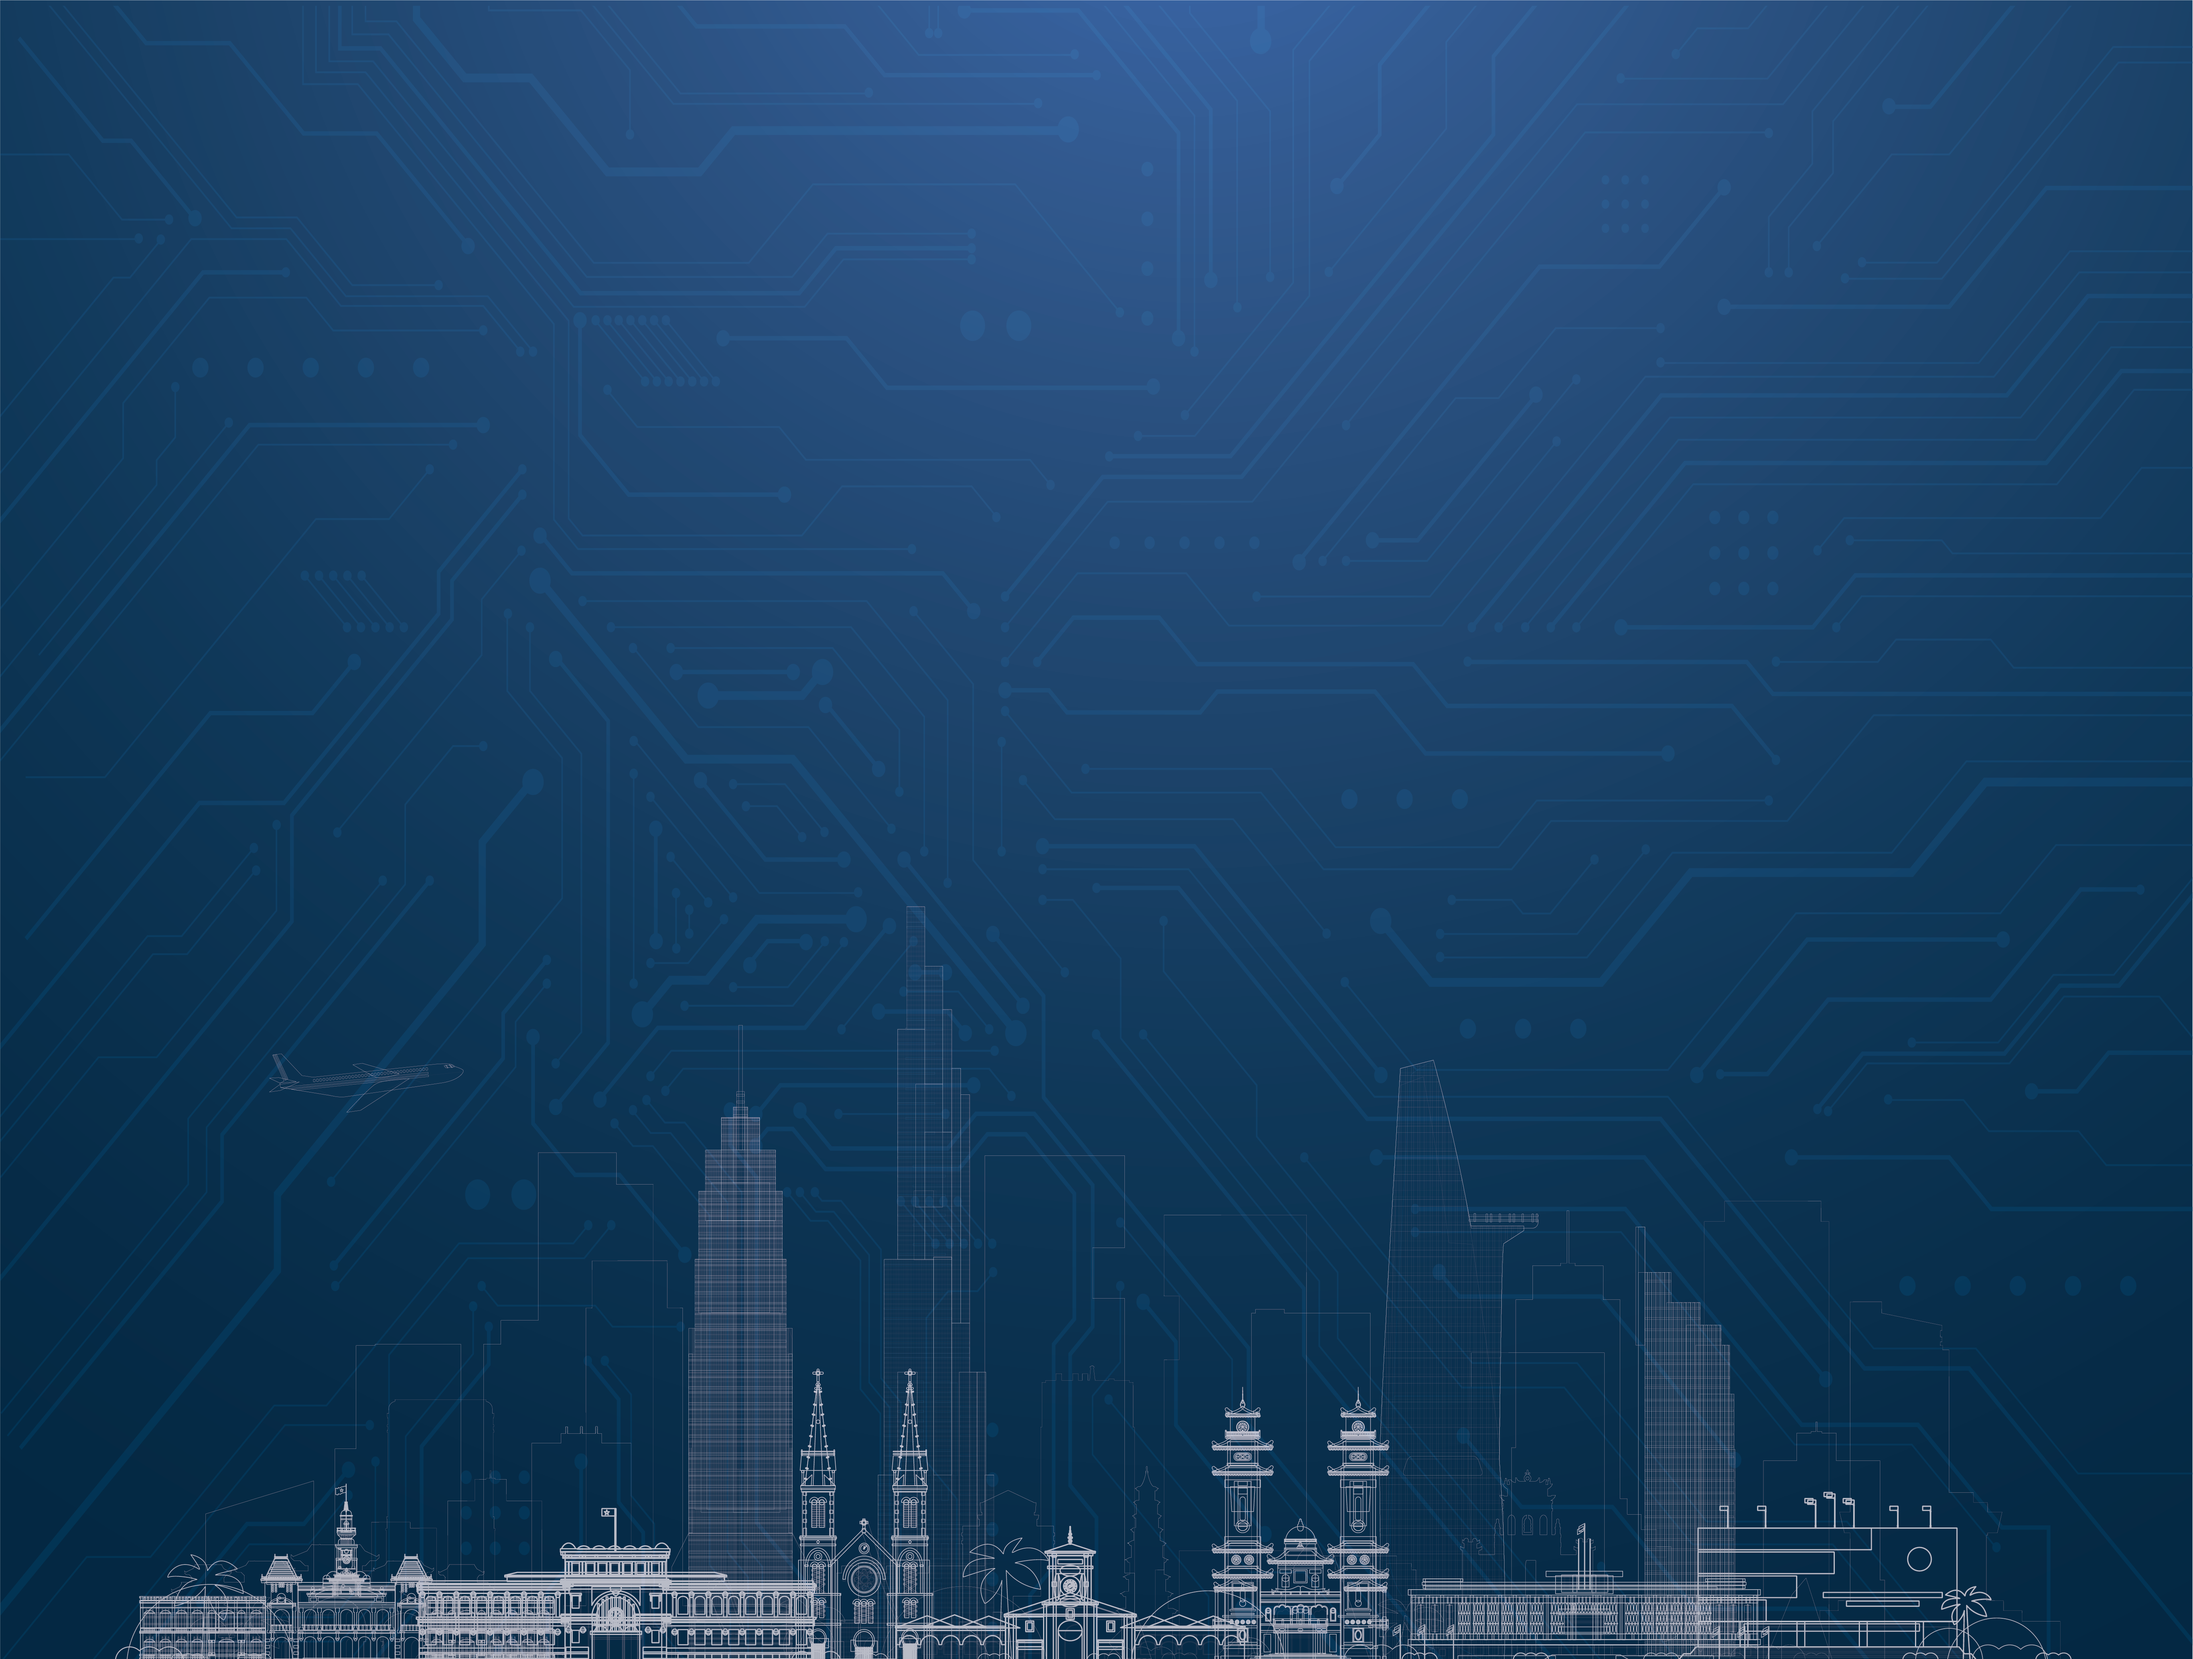
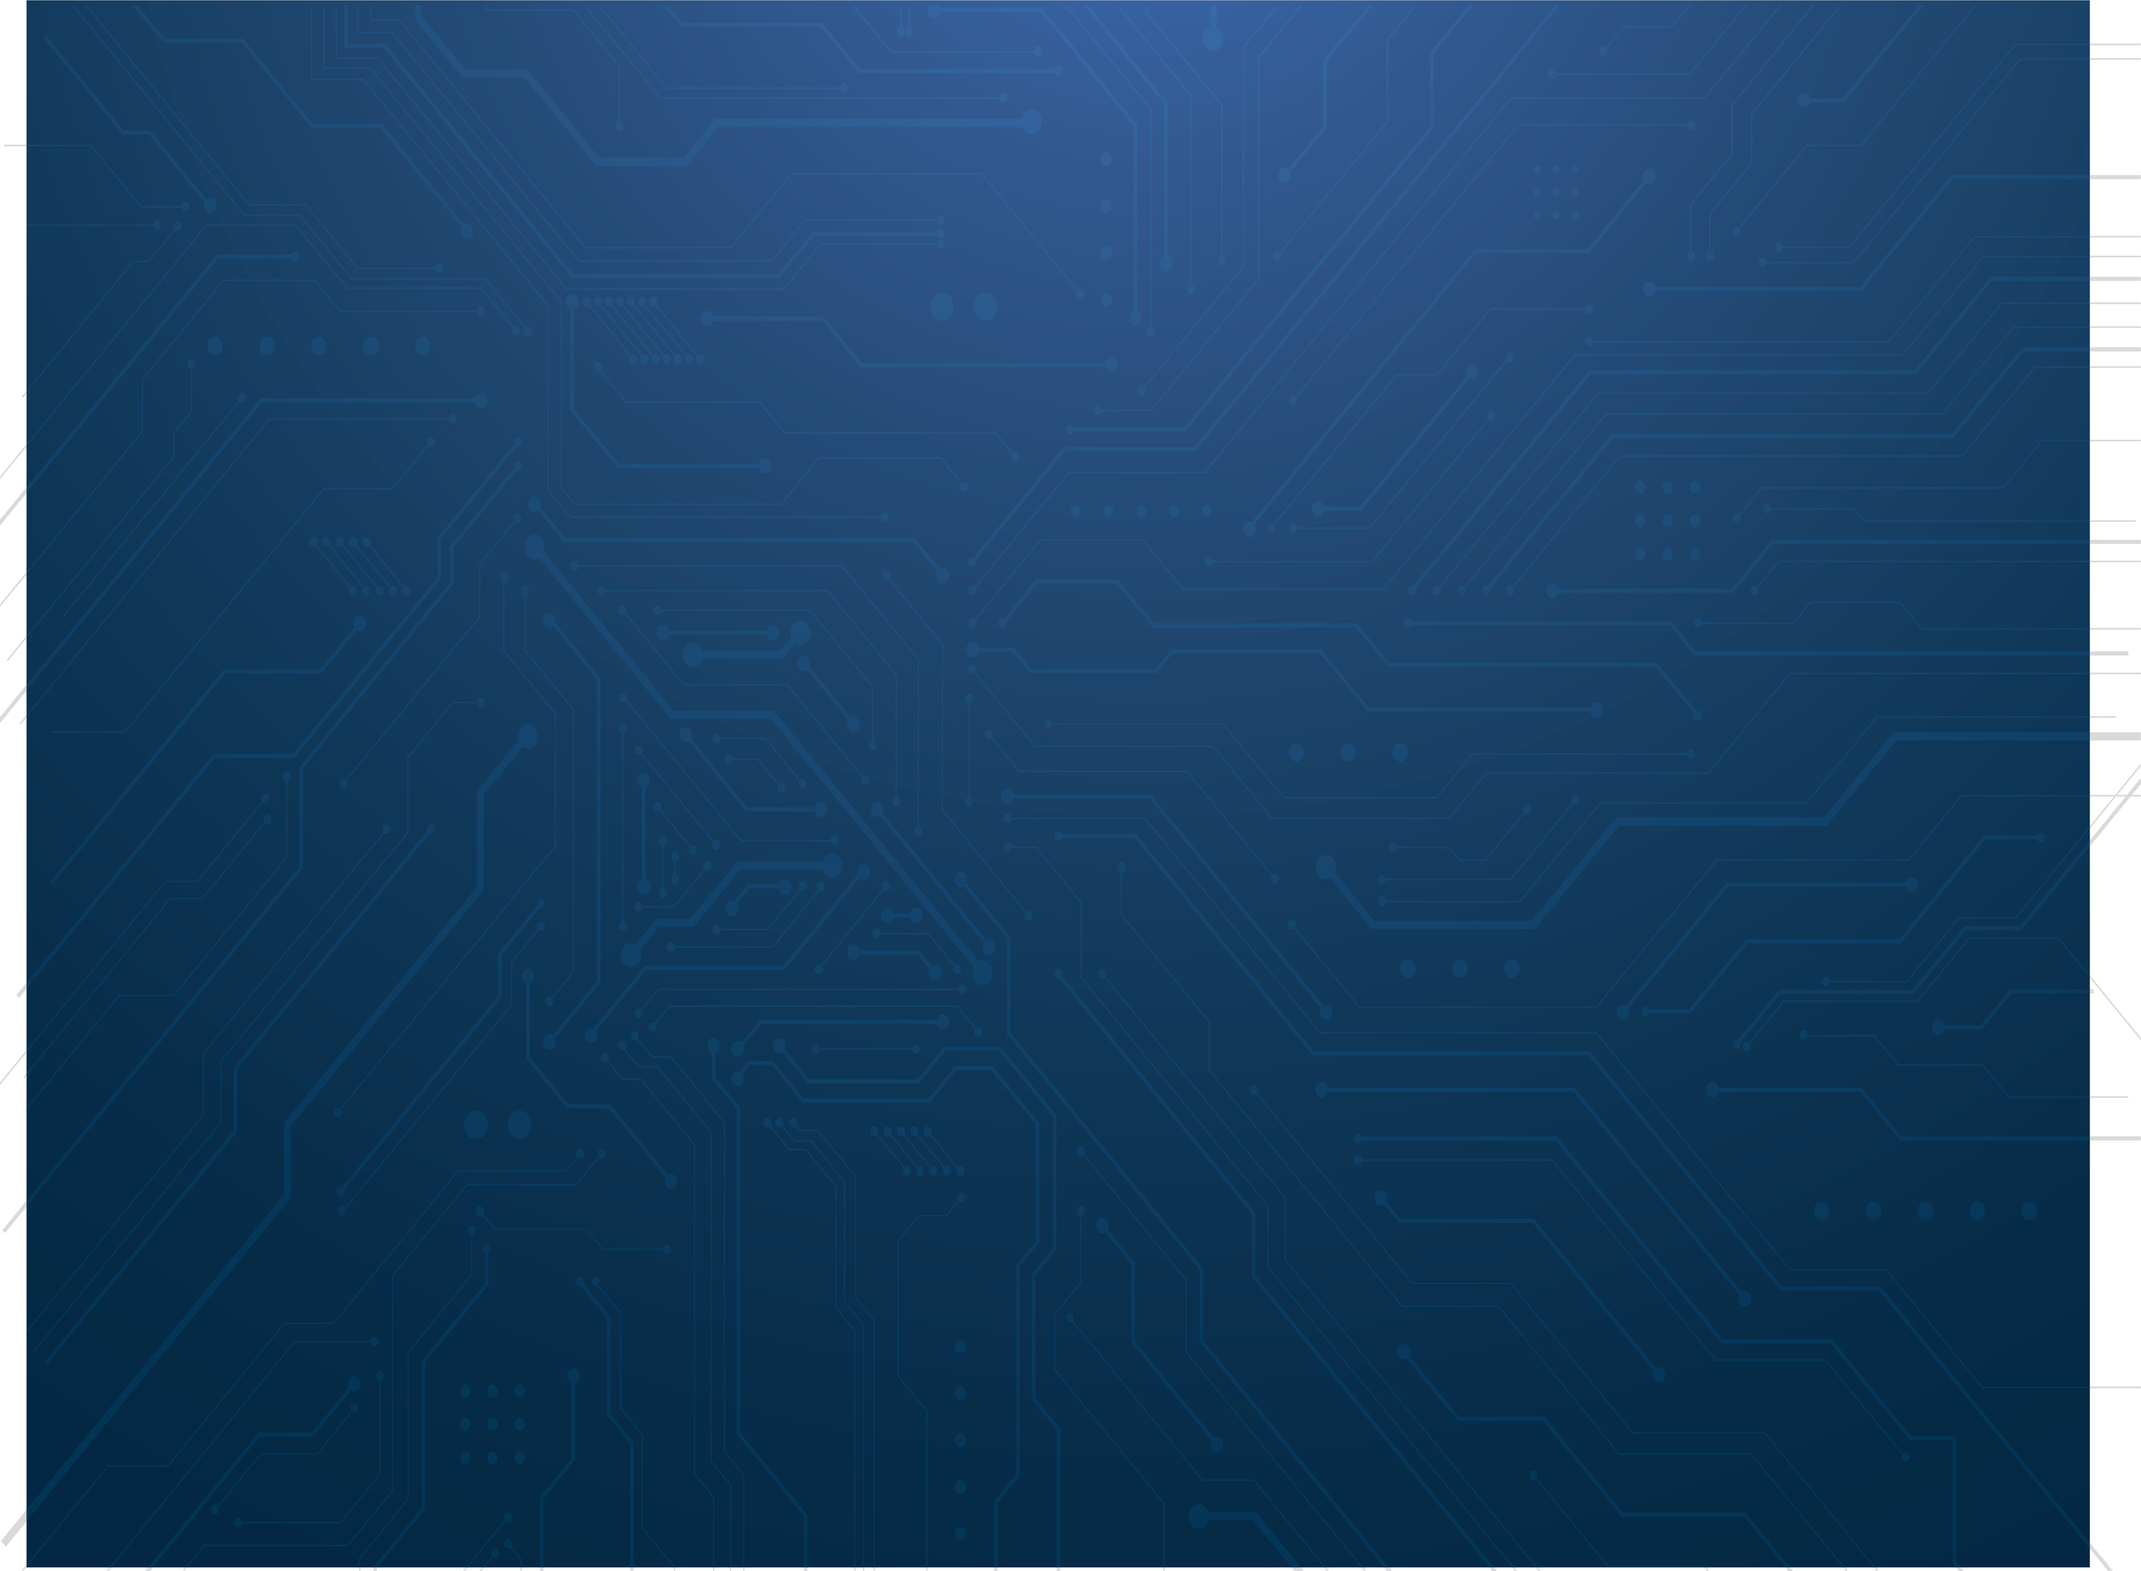
add 2 section final

Changed region(s): [[0.0, 0.0, 1.0, 1.0], [0.1244, 0.6244, 0.1866, 0.6556]]

diff --git a/index.html b/index.html
@@ -35,33 +35,28 @@
         </div>
     </div>
     <header class="header bg-blue-dark-homepage">
-        <div class="container">
-            <!-- <h1 class="text-center animate__animated animate__fadeInDown animate__delay-1s">
-                THIS IS HEADER
-            </h1> -->
-            <nav class="navbar navbar-expand-lg navbar-dark">
-                <div class="container-fluid">
-                    <a class="navbar-brand" aria-current="page" href="#">
-                        <img src="./images/logo_mcard_white.png" alt="logo-white" width="150">
-                    </a>
-                    <button class="navbar-toggler" type="button" data-bs-toggle="collapse"
-                        data-bs-target="#navbar_mcard_header" aria-controls="navbarNavAltMarkup" aria-expanded="false"
-                        aria-label="Toggle navigation">
-                        <span class="navbar-toggler-icon"></span>
-                    </button>
-                    <div class="collapse navbar-collapse justify-content-between" id="navbar_mcard_header">
-                        <div class="navbar-nav">
-                            <a class="nav-link" href="#">Bảng giá</a>
-                            <a class="nav-link" href="#">Hỗ trợ</a>
-                            <a class="nav-link" href="#">Liên hệ</a>
-                        </div>
-                        <a class="nav-link mcard_ecormerce py-2" href="#">
-                            <i class="fa-solid fa-cart-shopping text-white-50 fs-5"></i>
-                        </a>
+        <nav class="navbar navbar-expand-lg navbar-dark">
+            <div class="container-fluid">
+                <a class="navbar-brand" aria-current="page" href="#">
+                    <img src="./images/logo_mcard_white.png" alt="logo-white" width="150">
+                </a>
+                <button class="navbar-toggler" type="button" data-bs-toggle="collapse"
+                    data-bs-target="#navbar_mcard_header" aria-controls="navbarNavAltMarkup" aria-expanded="false"
+                    aria-label="Toggle navigation">
+                    <span class="navbar-toggler-icon"></span>
+                </button>
+                <div class="collapse navbar-collapse justify-content-between" id="navbar_mcard_header">
+                    <div class="navbar-nav">
+                        <a class="nav-link" href="#">Bảng giá</a>
+                        <a class="nav-link" href="#">Hỗ trợ</a>
+                        <a class="nav-link" href="#">Liên hệ</a>
                     </div>
+                    <a class="nav-link mcard_ecormerce py-2" href="#">
+                        <i class="fa-solid fa-cart-shopping text-white-50 fs-5"></i>
+                    </a>
                 </div>
-            </nav>
-        </div>
+            </div>
+        </nav>
     </header>
     <main class="main">
         <section class="intro_mcard">
@@ -96,49 +91,37 @@
                     class="wow animate__animated animate__zoomIn animate__delay-1s" width="300">
             </div>
         </section>
-        <div class="container">
-            <!-- <h1 class="text-center wow animate__animated animate__fadeInUp animate__delay-1s">
-                THIS IS MAIN
-            </h1> -->
-            <!-- <div class="menuCircleContact">
-                <button>Click to toggle the menu</button>
-                <ul>
-                    <li>
-                        <input id="c1" type="checkbox">
-                        <label for="c1">Danh Bạ</label>
-                    </li>
-                    <li>
-                        <input id="c2" type="checkbox">
-                        <label for="c2">Nghề Nghiệp</label>
-                    </li>
-                    <li>
-                        <input id="c3" type="checkbox">
-                        <label for="c3">Map location</label>
-                    </li>
-                    <li>
-                        <input id="c4" type="checkbox">
-                        <label for="c4">Profile</label>
-                    </li>
-                    <li>
-                        <input id="c5" type="checkbox">
-                        <label for="c5">Website</label>
-                    </li>
-                    <li>
-                        <input id="c6" type="checkbox">
-                        <label for="c6">Social media</label>
-                    </li>
-                    <li>
-                        <input id="c7" type="checkbox">
-                        <label for="c7">Email</label>
-                    </li>
-                    <li>
-                        <input id="c8" type="checkbox">
-                        <label for="c8">Địa chỉ</label>
-                    </li>
-                </ul>
-            </div> -->
-
-        </div>
+        <section class="template_card">
+            <div class="container_fluid">
+                <img src="./images/VIP-CARD.png" alt="vip_card" class="w-100">
+            </div>
+            <div class="container d-flex flex-column align-items-center">
+                <h3 class="py-2">Xem trước mCards của bạn</h3>
+                <div class="list_type_card d-flex justify-content-center">
+                    <a class="px-2 text-dark fw-bold" href="#">GOLD_CARDS</a>
+                    <a class="px-2 fw-bold text-blue-light-homepage" href="#">VIP_CARDS</a>
+                    <a class="px-2 text-dark fw-bold" href="#">PRIME_CARDS</a>
+                </div>
+                <a href="#" class="text-blue-light-homepage py-4">Đặt thẻ mCards ></a>
+            </div>
+        </section>
+        <section class="tutorial_register_section">
+            <div class="container">
+                <div class="title_tutorial_register text-center d-flex flex-column text-white pt-5">
+                    <span class="fs-2 fw-bold">KHÁCH HÀNG DỄ DÀNG KẾT NỐI</span>
+                    <span class="fs-5 pt-1">CHỈ CẦN CHẠM THẺ HOẶC QUÉT QRCODE</span>
+                </div>
+                <div class="tutorial_register d-flex flex-column mt-3 text-center align-items-center">
+                    <span class="fs-5 pb-3 text-white">Hướng dẫn sử dụng mCards</span>
+                    <button class="btn bg-transparent rounded-pill border-light text-white col-4">Xem video
+                        ngay</button>
+                    <a class="text text-blue-light-homepage" href="https://register.mcards.vn/">Đăng ký mCards ></a>
+                </div>
+                <div class="city_img_outline pt-2">
+                    <img src="./images/city_outline.png" alt="city_outline">
+                </div>
+            </div>
+        </section>
     </main>
     <footer class="footer">
         <div class="container pt-5">

diff --git a/css/homepage.css b/css/homepage.css
@@ -33,109 +33,6 @@ body {
 .text-blue-dark-homepage {
   color: #002843;
 }
-/* menu circle animate */
-.menuCircleContact,
-.menuCircleContact button {
-  font-family: "Oswald", sans-serif;
-  font-weight: 300;
-}
-
-.menuCircleContact button {
-  position: relative;
-  width: 100%;
-  height: 100%;
-  padding: 10px;
-  background: #428bca;
-  border-radius: 50%;
-  border: 0;
-  color: white;
-  font-size: 20px;
-  cursor: pointer;
-  box-shadow: 0 3px 3px rgba(0, 0, 0, 0.1);
-  transition: all 0.1s;
-}
-
-.menuCircleContact button:hover {
-  background: #3071a9;
-}
-
-.menuCircleContact button:focus {
-  outline: none;
-}
-
-.menuCircleContact {
-  position: absolute;
-  left: 50%;
-  top: 50%;
-  width: 140px;
-  height: 140px;
-  margin-top: -70px;
-  margin-left: -70px;
-}
-
-.menuCircleContact ul {
-  position: absolute;
-  list-style: none;
-  padding: 0;
-  margin: 0;
-  top: -20px;
-  right: -20px;
-  bottom: -20px;
-  left: -20px;
-}
-
-.menuCircleContact li {
-  position: absolute;
-  width: 0;
-  height: 100%;
-  margin: 0 50%;
-  -webkit-transform: rotate(-360deg);
-  transition: all 0.8s ease-in-out;
-}
-
-.menuCircleContact li input {
-  display: none;
-}
-
-.menuCircleContact li input + label {
-  position: absolute;
-  left: 50%;
-  bottom: 100%;
-  width: 0;
-  height: 0;
-  line-height: 1px;
-  margin-left: 0;
-  background: #fff;
-  border-radius: 50%;
-  text-align: center;
-  font-size: 1px;
-  overflow: hidden;
-  cursor: pointer;
-  box-shadow: none;
-  transition: all 0.8s ease-in-out, color 0.1s, background 0.1s;
-}
-
-.menuCircleContact li input + label:hover {
-  background: #f0f0f0;
-}
-
-.menuCircleContact li input:checked + label {
-  background: #5cb85c;
-  color: white;
-}
-
-.menuCircleContact li input:checked + label:hover {
-  background: #449d44;
-}
-
-.menuCircleContact.open li input + label {
-  width: 80px;
-  height: 80px;
-  line-height: 80px;
-  margin-left: -40px;
-  box-shadow: 0 3px 3px rgba(0, 0, 0, 0.1);
-  font-size: 14px;
-}
 /* header - navbar*/
 nav.navbar {
   background: url("../images/navbar_bg.png");
@@ -163,13 +60,10 @@ nav.navbar .mcard_ecormerce i:hover {
   min-height: 150px;
   width: 100%;
 }
-.touch_QR img{
-  
-}
 
 /* Circle Contact */
 .circle_contact {
-  background-color: #f2f2f2;
+  background-color: #f2f2f2 !important;
   background: url("../images/circle_contact_bg.png");
   background-size: cover;
   background-repeat: no-repeat;
@@ -186,7 +80,41 @@ nav.navbar .mcard_ecormerce i:hover {
 .circle_contact .image-override img {
   position: absolute;
 }
-footer.footer img{
+/* template_card */
+.list_type_card a {
+  text-decoration: none;
+  font-size: 12px;
+  transition: all 0.3s;
+}
+.template_card a {
+  text-decoration: none;
+  transition: all 0.3s;
+}
+.template_card a:hover {
+  color: #00579c !important;
+}
+.template_card .list_type_card a:hover {
+  color: #00579c !important;
+}
+
+/* tutorial_register_section */
+.tutorial_register_section {
+  background: url("../images/tutorial_mcard_bg.png");
+  background-size: cover;
+  background-position: center center;
+  width: 100%;
+  min-height: 409px;
+}
+.tutorial_register a {
+  text-decoration: none;
+  padding-top: 15px;
+}
+
+.city_img_outline img {
+  width: 100%;
+}
+/* footer */
+footer.footer img {
   position: relative;
   top: -20px;
 }

diff --git a/main.js b/main.js
@@ -20,42 +20,3 @@ function backToTop() {
   document.body.scrollTop = 0;
   document.documentElement.scrollTop = 0;
 }
-
-/* event menu circle button */
-var nbOptions = 8; // number of menus
-var angleStart = -360; // start angle
-
-// jquery rotate animation
-function rotate(li, d) {
-  $({ d: angleStart }).animate(
-    { d: d },
-    {
-      step: function (now) {
-        $(li)
-          .css({ transform: "rotate(" + now + "deg)" })
-          .find("label")
-          .css({ transform: "rotate(" + -now + "deg)" });
-      },
-      duration: 0,
-    }
-  );
-}
-
-// show / hide the options
-function toggleOptions(s) {
-  $(s).toggleClass("open");
-  var li = $(s).find("li");
-  var deg = $(s).hasClass("half") ? 180 / (li.length - 1) : 360 / li.length;
-  for (var i = 0; i < li.length; i++) {
-    var d = $(s).hasClass("half") ? i * deg - 90 : i * deg;
-    $(s).hasClass("open") ? rotate(li[i], d) : rotate(li[i], angleStart);
-  }
-}
-
-$(".menuCircleContact button").click(function (e) {
-  toggleOptions($(this).parent());
-});
-
-setTimeout(function () {
-  toggleOptions(".menuCircleContact");
-}, 100);

diff --git a/css/responsive_custom.css b/css/responsive_custom.css
@@ -62,9 +62,7 @@
     top: -200px;
     left: 0;
   }
-  .tablet_dev_background {
-    display: none;
-  }
+  .tablet_dev_background,
   .tablet_dev_background img {
     display: none;
   }
